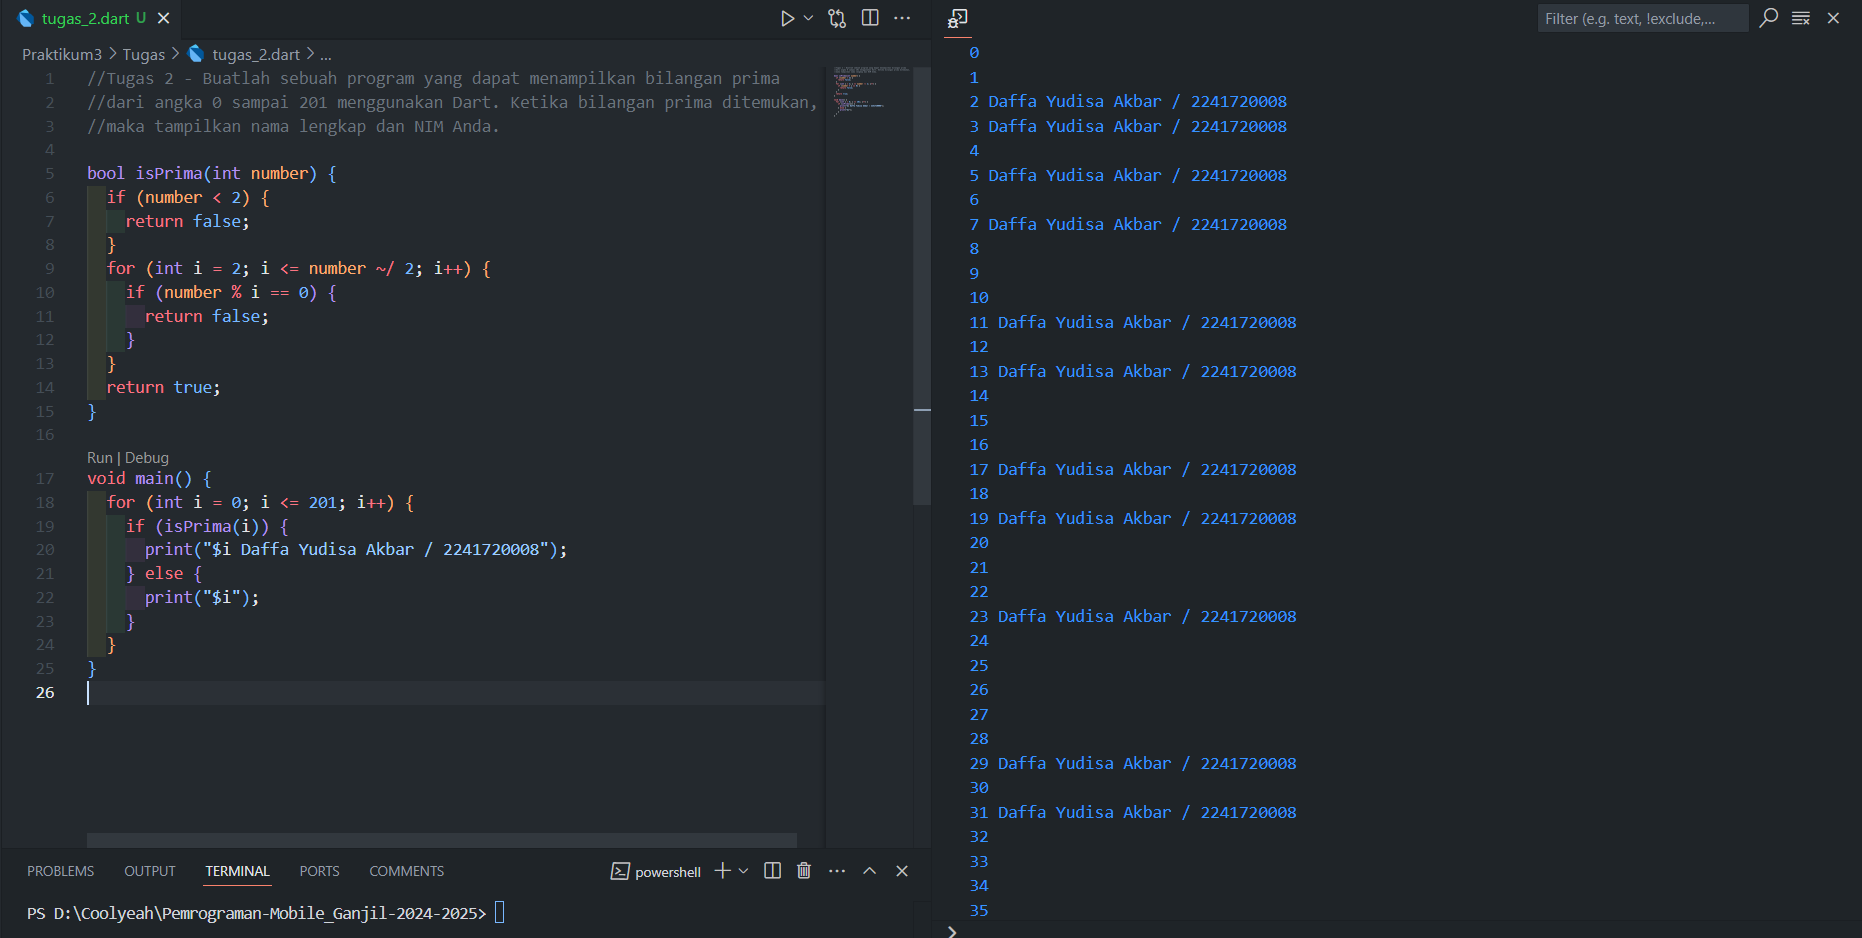
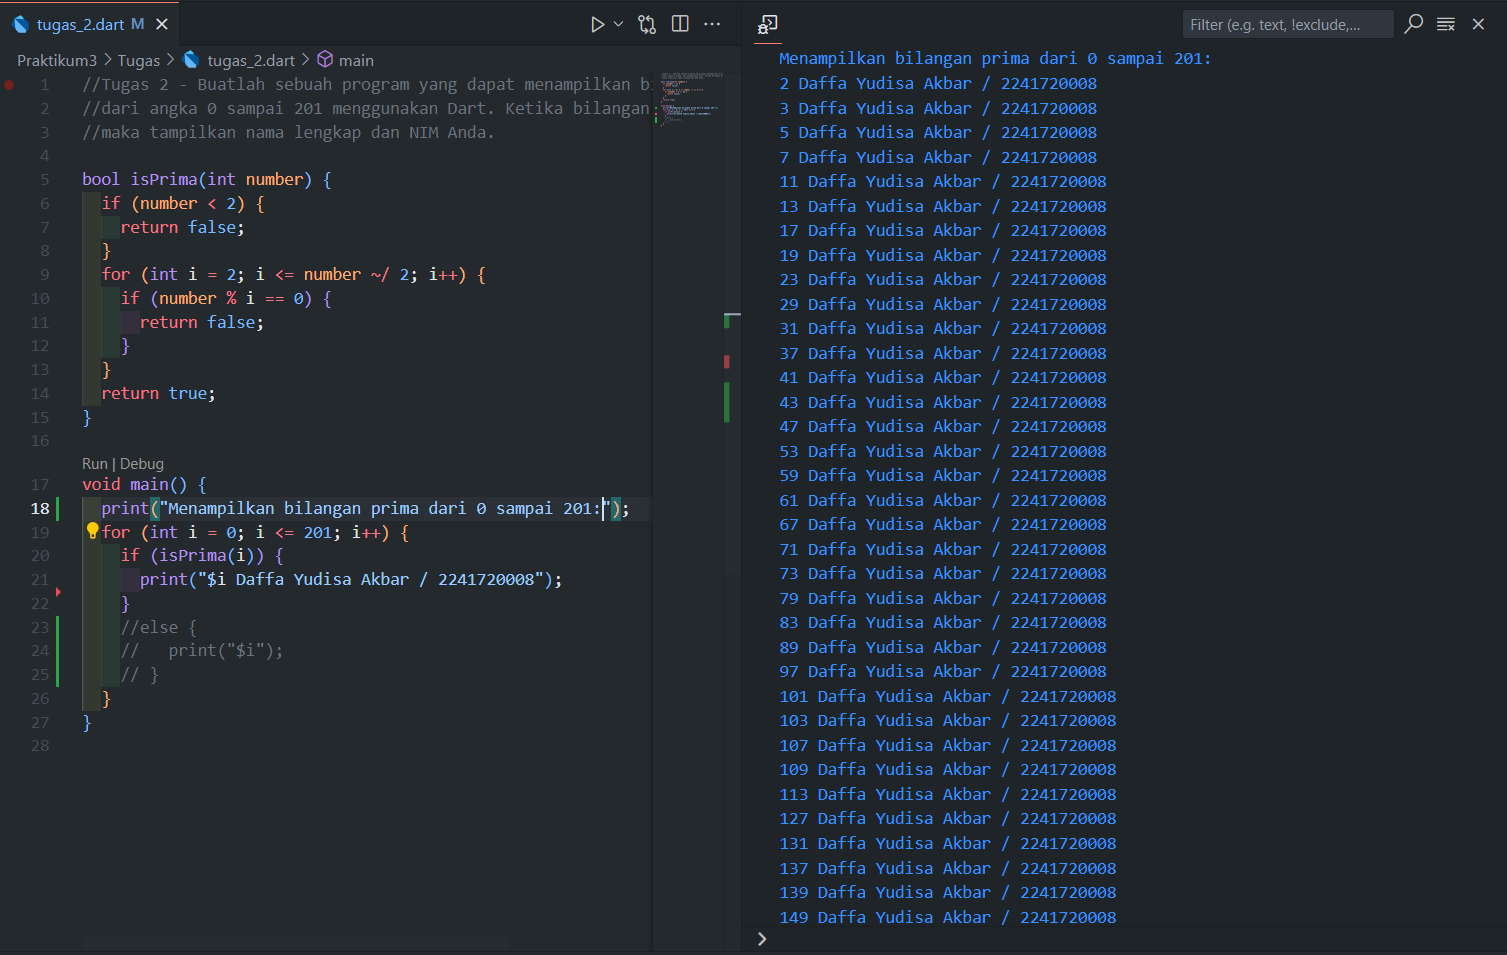
fix: Tugas No.2 Jobsheet 3

diff --git a/Praktikum3/Tugas/tugas_2.dart b/Praktikum3/Tugas/tugas_2.dart
@@ -15,11 +15,13 @@ bool isPrima(int number) {
 }
 
 void main() {
+  print("Menampilkan bilangan prima dari 0 sampai 201:");
   for (int i = 0; i <= 201; i++) {
     if (isPrima(i)) {
       print("$i Daffa Yudisa Akbar / 2241720008");
-    } else {
-      print("$i");
     }
+    //else {
+    //   print("$i");
+    // }
   }
 }
